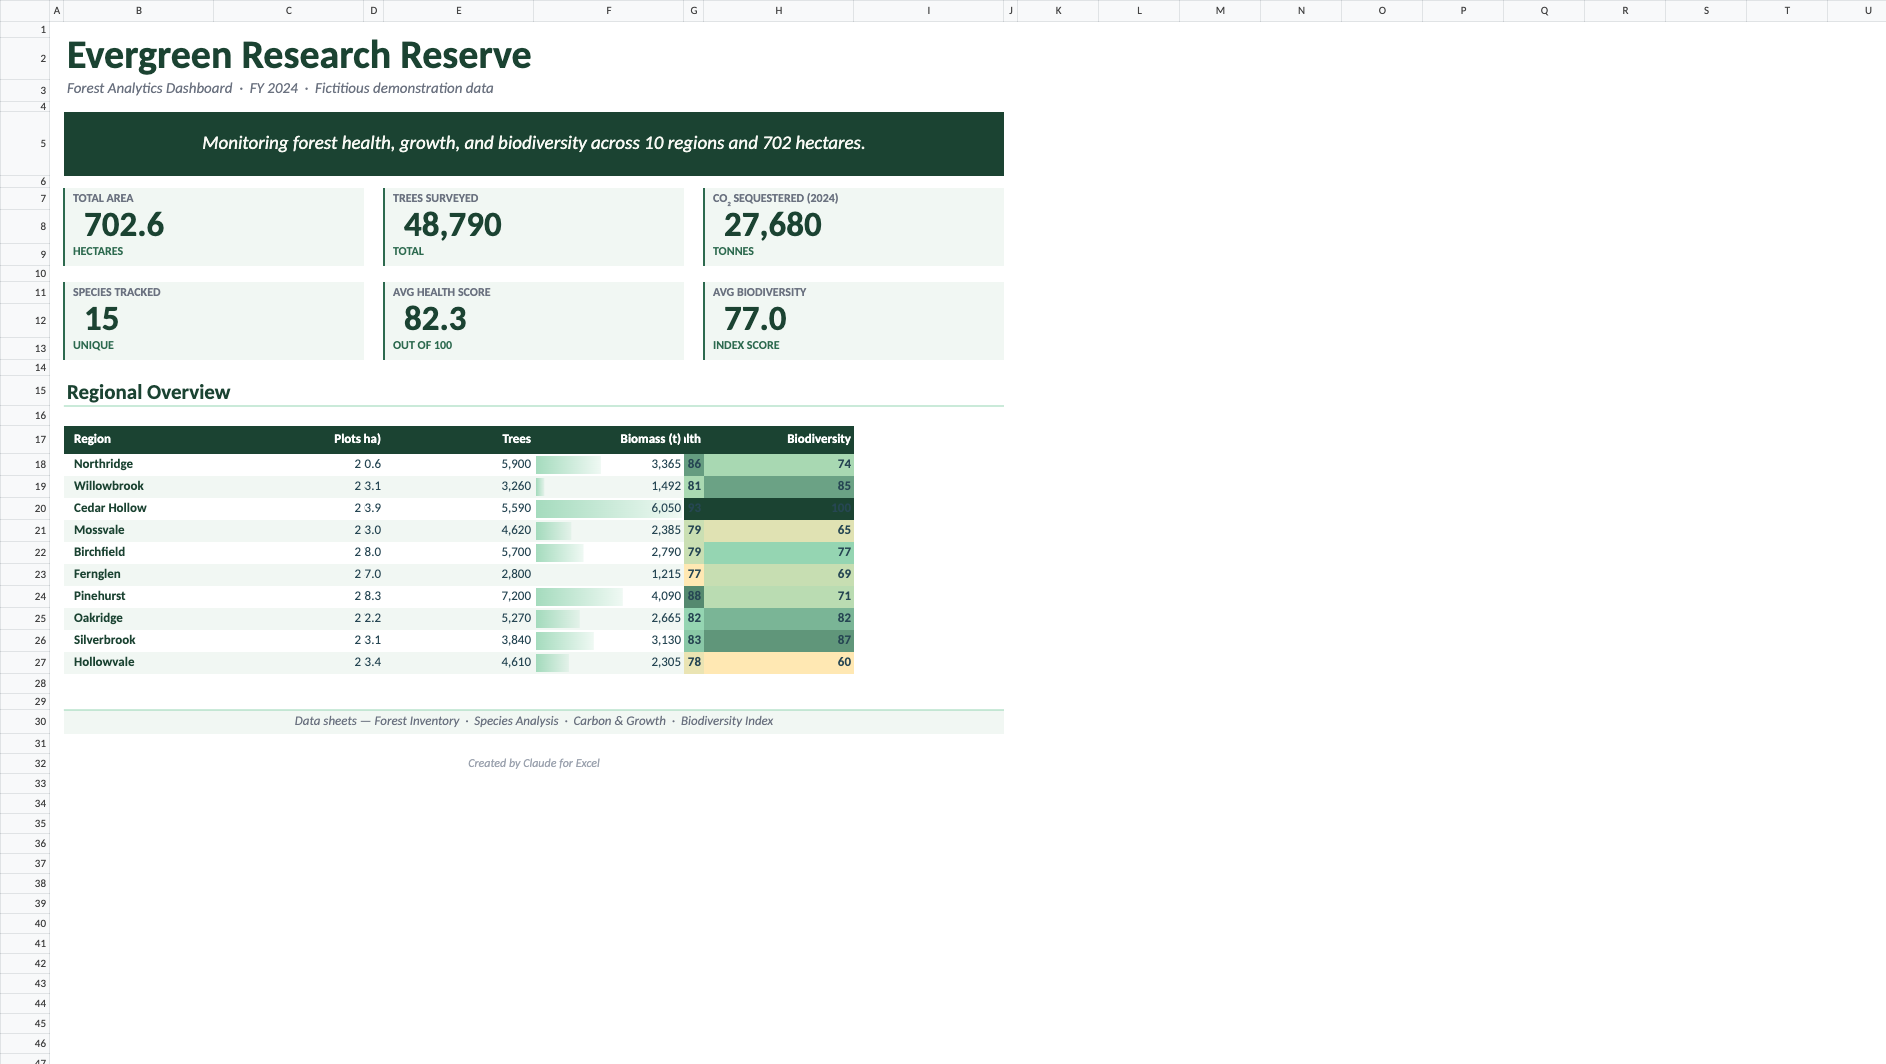
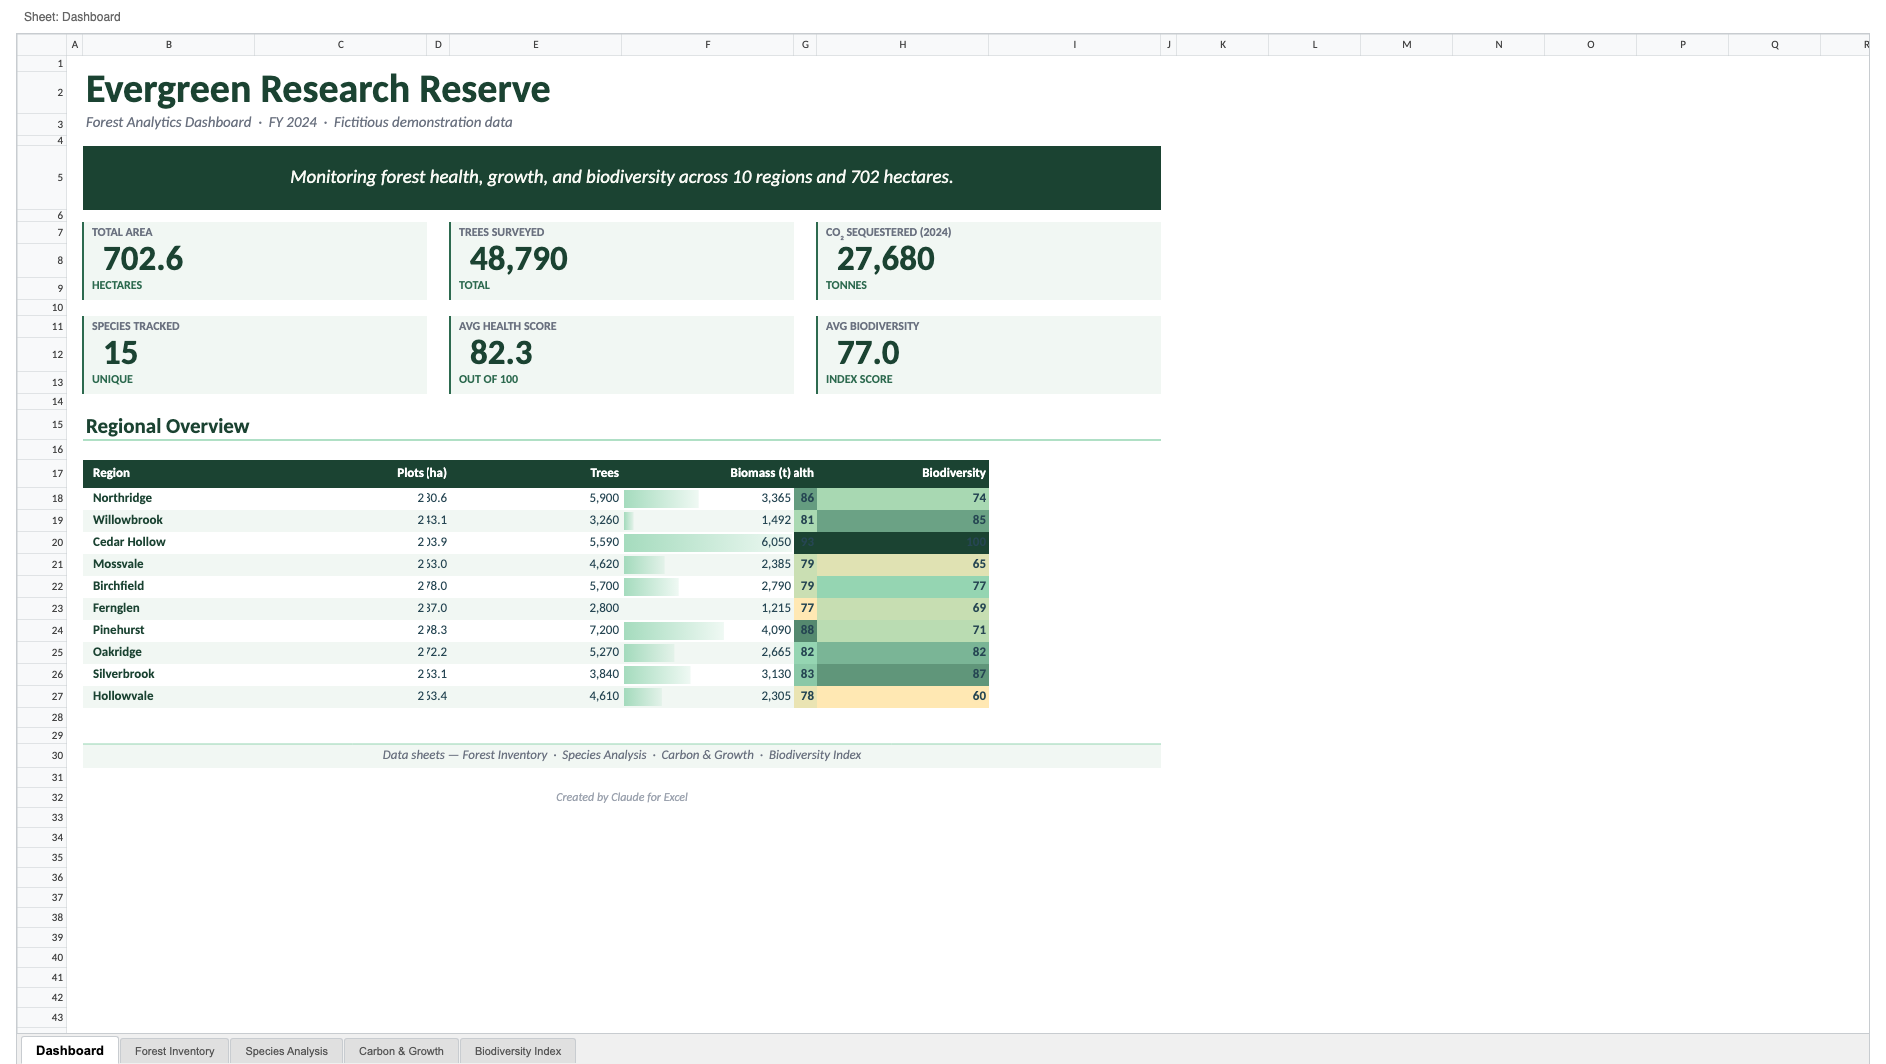
chore(release): 0.23.0
- Bump version to 0.23.0 in all packages
- CHANGELOG: document shape textbox rendering, MDW fix, vertical centering fix, border z-order fix
- README: add 'Drawing shapes / text boxes (xdr:sp, xdr:txBody)' row to XLSX feature table
- README screenshots: refresh docs/images/{pptx,docx,xlsx}.png

diff --git a/CHANGELOG.md b/CHANGELOG.md
@@ -4,6 +4,38 @@ All notable changes to @silurus/ooxml are documented here. The project follows
 semantic versioning; minor releases add spec-compliant features or behavior
 changes that remain compatible with existing API surfaces.
 
+## 0.23.0 — 2026-04-30
+
+Minor release adding drawing-shape text rendering for XLSX and correcting
+column-width pixel conversion for Calibri 11pt.
+
+- **XLSX engine** (`packages/xlsx`):
+  - **Shape textboxes rendered**: stand-alone `<xdr:sp>` elements in
+    `<xdr:twoCellAnchor>` (i.e. textboxes not inside a `<xdr:grpSp>` group)
+    are now parsed and drawn. The parser extracts `<xdr:txBody>` content —
+    paragraph alignment, per-run bold/italic/size/color/font — and the
+    renderer draws them with word-wrap and body anchor support
+    (ECMA-376 §20.5.2, §20.1.7.2).
+  - **Theme fill / text-color fallback**: when a shape has no explicit
+    `<a:solidFill>` in `<xdr:spPr>`, the fill color and default text color
+    are now resolved from `<xdr:style>/<a:fillRef>` and `<a:fontRef>`
+    (theme accent/lt/dk slots), matching Excel's style-inheritance chain.
+  - **Vertical centering fix**: `drawShapeText` with `anchor="ctr"` now
+    correctly centers the text block regardless of whether `blockH > innerH`
+    — the previous `Math.max(0, …)` clamp caused text to appear
+    top-aligned in those cases.
+  - **Row-border z-order fix**: each cell now inherits the bottom edge of
+    the cell directly above as its own top edge, so the uniform thick
+    bottom-border spanning D2–Q2 is no longer overdrawn by the next row's
+    `fillRect` pass (PR #164).
+  - **MDW corrected to 8** (ECMA-376 §18.3.1.13): the Max Digit Width
+    constant was updated from 7 to 8 to match Canvas2D measurements of
+    Calibri/Carlito 11pt at 96 DPI and the actual column EMU widths that
+    Excel 365 writes into drawing XML. This makes the default 8-char column
+    64 px (matches Excel 100% zoom) and fixes drawing-anchor `colOff` values
+    that exceeded the column width with MDW=7 (PR #165).
+    ⚠ VRT reference images will differ — column widths are ~14 % wider.
+
 ## 0.22.1 — 2026-04-29
 
 Patch release. Fix a visible layout shift on the Storybook demo when

diff --git a/README.md b/README.md
@@ -423,6 +423,7 @@ export const PptxViewerComponent = component$<{ src: string }>(({ src }) => {
 | | Row / column sizing (custom widths and heights) | ✅ |
 | | Hidden rows / columns | ✅ |
 | **Elements** | Images (`<xdr:twoCellAnchor>`) | ✅ |
+| | Drawing shapes / text boxes (`xdr:sp`, `xdr:txBody`) | ✅ |
 | | Charts (bar, line, area, radar, scatter / bubble) | ✅ |
 | | Chart markers (circle / square / diamond / triangle / x / plus / star / dot / dash, per-point `<c:dPt>` overrides) | ✅ |
 | | Chart data labels (`<c:dLbl>` per-point with CELLRANGE / VALUE / SERIESNAME / CATEGORYNAME field references, position `l`/`r`/`t`/`b`/`ctr`/`outEnd`) | ✅ |
